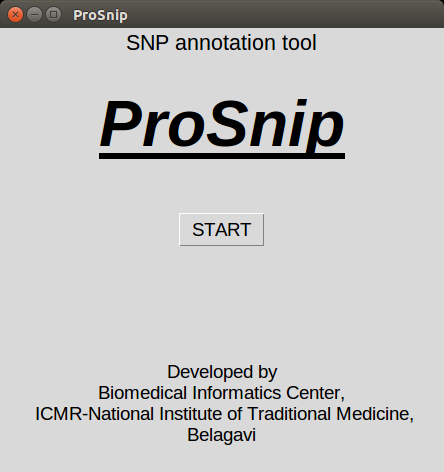
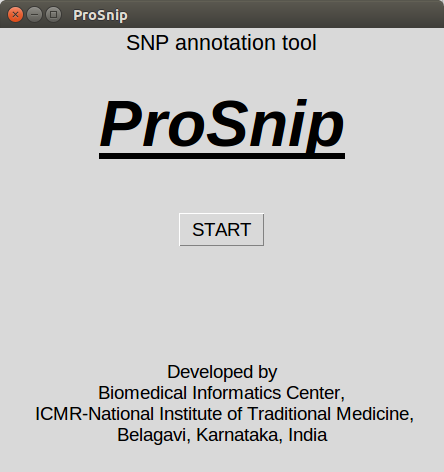
changes

Changed region(s): [[0.2635, 0.8898, 0.732, 0.9492], [0.9955, 0.0, 1.0, 0.0297]]

diff --git a/scripts/intro.py b/scripts/intro.py
@@ -39,7 +39,7 @@ start_bt.pack()
 blank2 = Tkinter.Label(root, text="", font=("Arial", 72))
 blank2.pack()
 
-title = Tkinter.Label(root, text="Developed by\nBiomedical Informatics Center,\n ICMR-National Institute of Traditional Medicine,\nBelagavi", font=("Arial", 14))
+title = Tkinter.Label(root, text="Developed by\nBiomedical Informatics Center,\n ICMR-National Institute of Traditional Medicine,\nBelagavi, Karnataka, India", font=("Arial", 14))
 title.pack()
 
 
